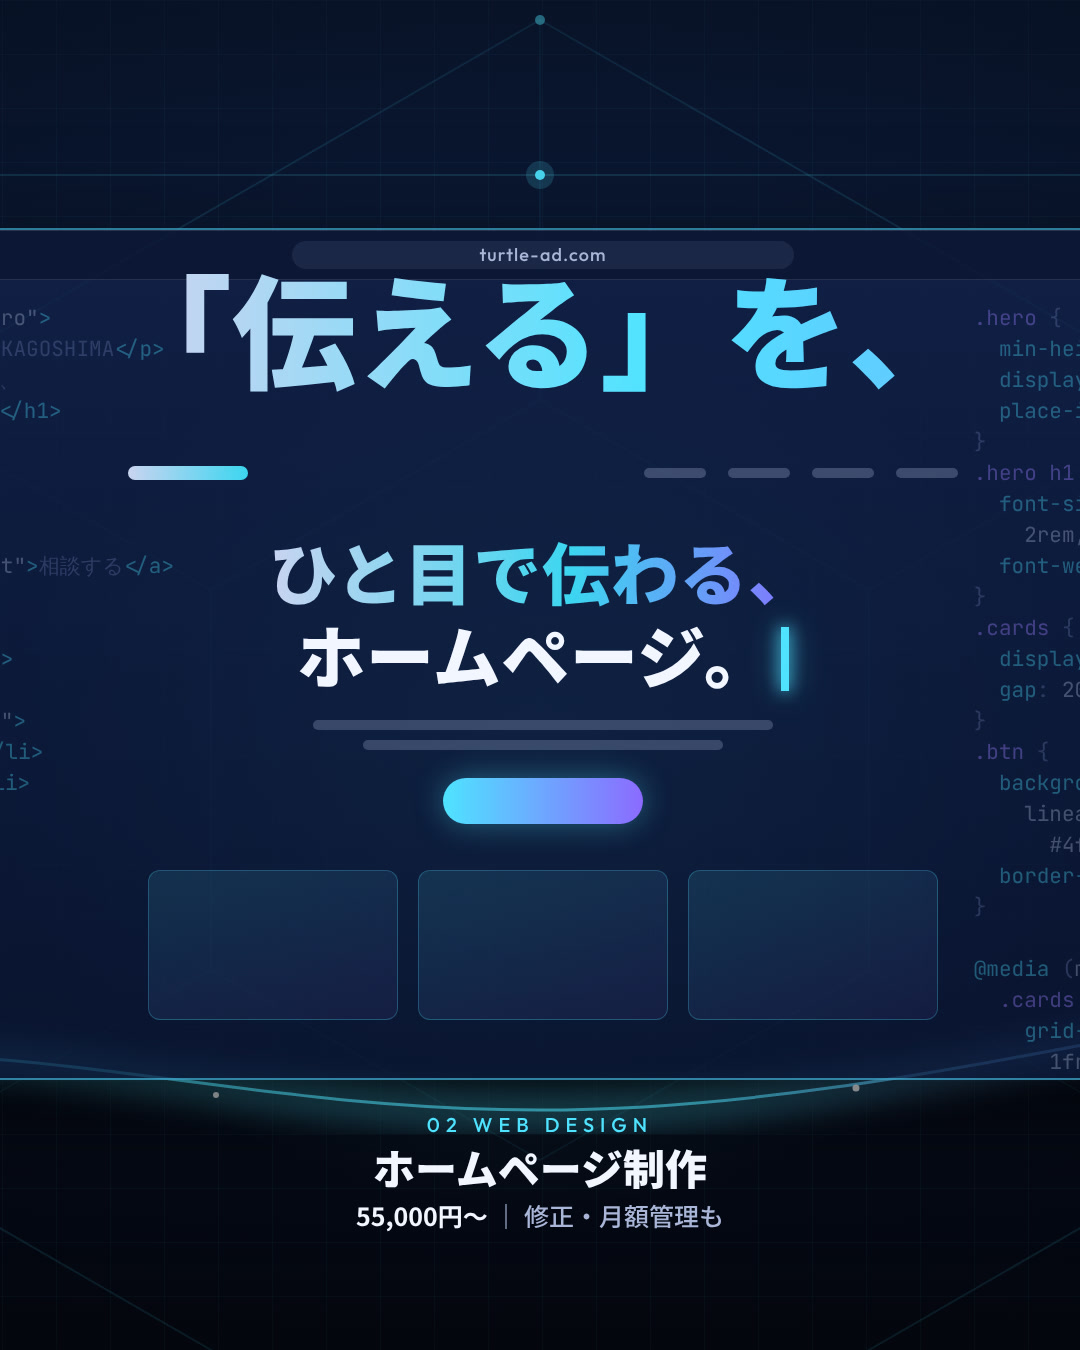
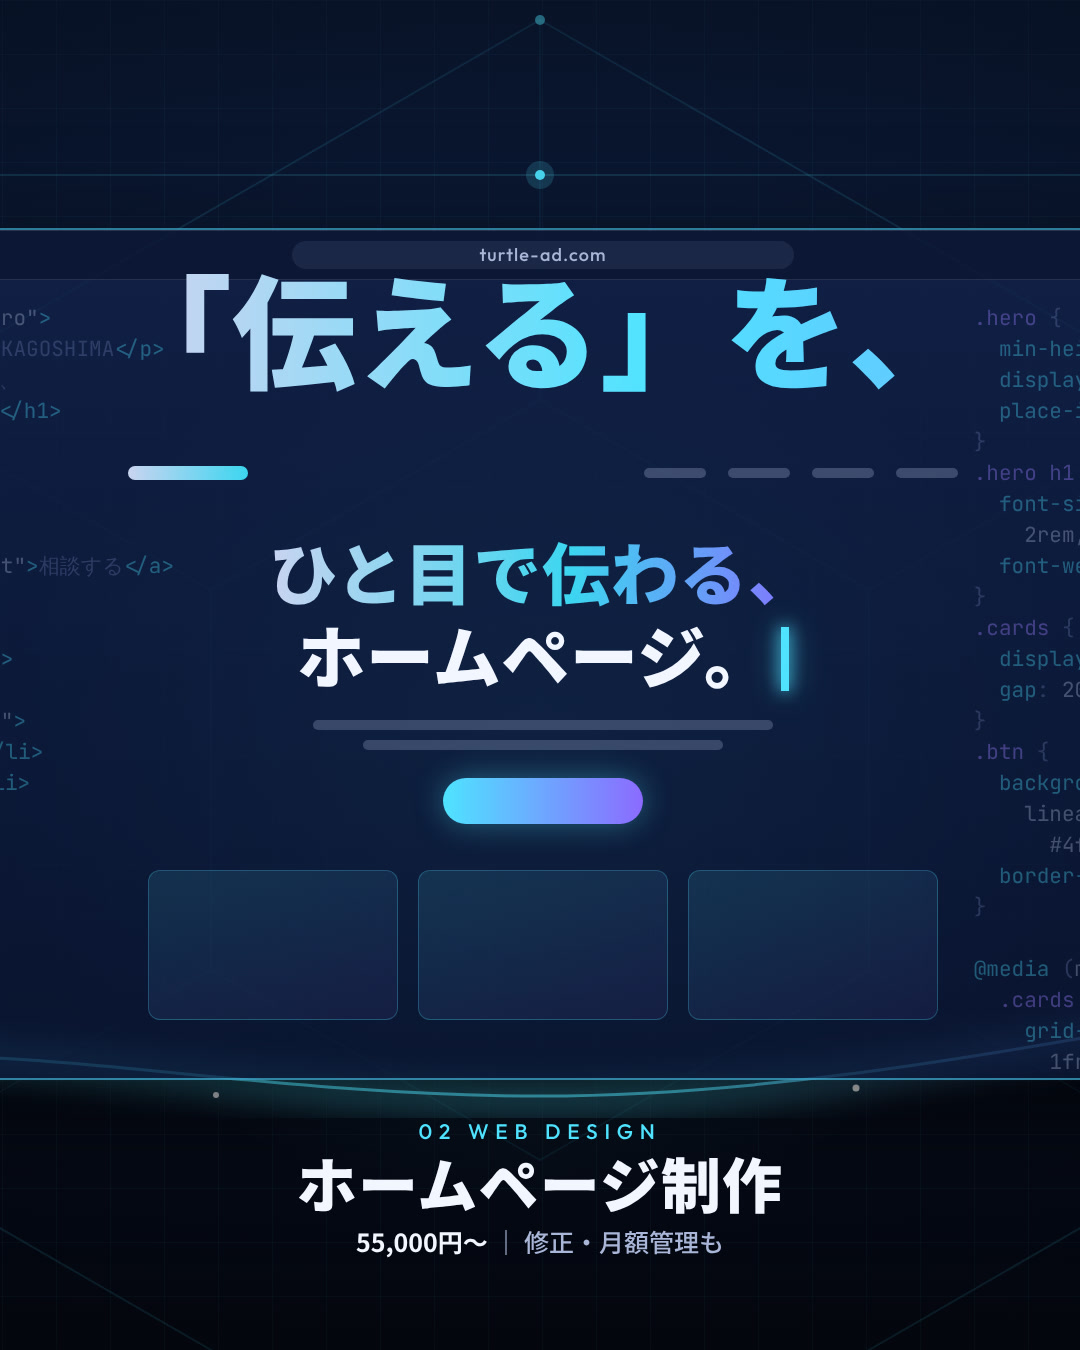
固定3枚: 3つの事業名を大きく、すべて中央揃えに
Claude-Session: https://claude.ai/code/session_01AEUD54a1kfyYiAYXhJ5bzU

Changed region(s): [[0.275, 0.8089, 0.7333, 0.9333], [0.0611, 0.7778, 0.275, 0.8089], [0.7333, 0.7778, 0.9167, 0.8089]]

diff --git a/img/pinned/pin_master.html b/img/pinned/pin_master.html
@@ -53,25 +53,25 @@ svg.layer{position:absolute;left:0;top:0;width:3128px;height:1350px}
 .chat .a .who span{font-family:'Outfit',sans-serif;font-size:18px;letter-spacing:.2em;color:#a9b6d8}
 .chat .a i{display:block;height:12px;border-radius:6px;margin-bottom:12px;background:linear-gradient(90deg,rgba(79,227,255,.75),rgba(139,107,255,.5));box-shadow:0 0 14px rgba(79,227,255,.35)}
 /* phone */
-.ph{left:2350px;top:430px;width:360px;height:680px;border-radius:52px;padding:3px;background:linear-gradient(160deg,#4fe3ff,#8b6bff);box-shadow:0 0 70px rgba(139,107,255,.35), 0 40px 100px rgba(0,0,0,.6)}
+.ph{left:2360px;top:432px;width:340px;height:640px;border-radius:52px;padding:3px;background:linear-gradient(160deg,#4fe3ff,#8b6bff);box-shadow:0 0 70px rgba(139,107,255,.35), 0 40px 100px rgba(0,0,0,.6)}
 .ph .in{position:relative;width:100%;height:100%;border-radius:49px;overflow:hidden;background:
   radial-gradient(260px 240px at 70% 28%, rgba(139,107,255,.85), transparent 70%),
   radial-gradient(280px 260px at 25% 62%, rgba(40,130,220,.75), transparent 70%),
   linear-gradient(180deg,#141a4a,#081024)}
-.ph .notch{position:absolute;left:130px;top:16px;width:94px;height:26px;border-radius:13px;background:#04070f}
+.ph .notch{position:absolute;left:120px;top:16px;width:94px;height:26px;border-radius:13px;background:#04070f}
 .ph .reel{position:absolute;left:28px;top:62px;font-family:'Outfit',sans-serif;font-weight:700;font-size:18px;letter-spacing:.26em;color:#fff;opacity:.9}
-.ph .play{position:absolute;left:127px;top:250px;width:106px;height:106px;border-radius:50%;background:rgba(255,255,255,.16);border:2px solid rgba(255,255,255,.7);backdrop-filter:blur(4px)}
+.ph .play{position:absolute;left:117px;top:236px;width:106px;height:106px;border-radius:50%;background:rgba(255,255,255,.16);border:2px solid rgba(255,255,255,.7);backdrop-filter:blur(4px)}
 .ph .play:after{content:'';position:absolute;left:42px;top:31px;border-left:34px solid #fff;border-top:21px solid transparent;border-bottom:21px solid transparent}
-.ph .cap{position:absolute;left:50%;transform:translateX(-50%);top:478px;white-space:nowrap;padding:10px 22px;border-radius:10px;background:rgba(4,7,15,.72);font-size:32px;font-weight:900}
-.ph .prog{position:absolute;left:28px;right:28px;top:600px;height:6px;border-radius:3px;background:rgba(255,255,255,.25)}
+.ph .cap{position:absolute;left:50%;transform:translateX(-50%);top:452px;white-space:nowrap;padding:10px 22px;border-radius:10px;background:rgba(4,7,15,.72);font-size:32px;font-weight:900}
+.ph .prog{position:absolute;left:28px;right:28px;top:566px;height:6px;border-radius:3px;background:rgba(255,255,255,.25)}
 .ph .prog:before{content:'';position:absolute;left:0;top:0;bottom:0;width:58%;border-radius:3px;background:linear-gradient(90deg,#4fe3ff,#8b6bff)}
-.ph .side{position:absolute;right:20px;top:330px;display:flex;flex-direction:column;gap:22px}
+.ph .side{position:absolute;right:18px;top:310px;display:flex;flex-direction:column;gap:22px}
 .ph .side i{display:block;width:34px;height:34px;border-radius:50%;background:rgba(255,255,255,.22)}
 /* bottom */
-.svc{top:1112px}
-.svc .no{font-family:'Outfit',sans-serif;font-weight:500;font-size:20px;letter-spacing:.3em;color:#4fe3ff}
-.svc .nm{margin-top:6px;font-size:42px;font-weight:900;line-height:1.15}
-.svc .ds{margin-top:6px;font-size:25px;font-weight:500;color:#a9b6d8}
+.svc{top:1118px;width:820px;text-align:center}
+.svc .no{font-family:'Outfit',sans-serif;font-weight:500;font-size:21px;letter-spacing:.32em;color:#4fe3ff}
+.svc .nm{margin-top:4px;font-size:60px;font-weight:900;line-height:1.12;letter-spacing:.02em}
+.svc .ds{margin-top:8px;font-size:25px;font-weight:500;color:#a9b6d8;white-space:nowrap}
 .svc .ds b{color:#f2f6ff;font-weight:700}
 </style></head><body><div class="m">
 <div class="grid"></div>
@@ -92,8 +92,8 @@ svg.layer{position:absolute;left:0;top:0;width:3128px;height:1350px}
   <line x1="560" y1="175" x2="2620" y2="175" stroke-width="1" stroke-opacity=".3"/>
  </g>
  <g fill="#4fe3ff"><circle cx="1564" cy="20" r="5" fill-opacity=".6"/><circle cx="2222" cy="400" r="5" fill-opacity=".6"/><circle cx="906" cy="400" r="5" fill-opacity=".6"/><circle cx="300" cy="520" r="4" fill-opacity=".5"/><circle cx="2850" cy="470" r="4" fill-opacity=".5"/><circle cx="1564" cy="175" r="5"/><circle cx="1564" cy="175" r="14" fill-opacity=".18"/></g>
- <path d="M-20,905 C420,980 700,1062 900,1056 S1300,1110 1564,1110 S2080,1046 2330,1004 S2860,892 3148,876" fill="none" stroke="url(#flow)" stroke-width="40" stroke-opacity=".32" filter="url(#blur)"/>
- <path d="M-20,905 C420,980 700,1062 900,1056 S1300,1110 1564,1110 S2080,1046 2330,1004 S2860,892 3148,876" fill="none" stroke="url(#flow)" stroke-width="3" stroke-opacity=".95"/>
+ <path d="M-20,905 C420,980 700,1062 900,1056 S1300,1096 1564,1096 S2080,1040 2330,1000 S2860,892 3148,876" fill="none" stroke="url(#flow)" stroke-width="40" stroke-opacity=".32" filter="url(#blur)"/>
+ <path d="M-20,905 C420,980 700,1062 900,1056 S1300,1096 1564,1096 S2080,1040 2330,1000 S2860,892 3148,876" fill="none" stroke="url(#flow)" stroke-width="3" stroke-opacity=".95"/>
  <g fill="#ffffff"><circle cx="520" cy="1000" r="3.5" fill-opacity=".9"/><circle cx="1240" cy="1095" r="3" fill-opacity=".8"/><circle cx="1880" cy="1088" r="3.5" fill-opacity=".9"/><circle cx="2600" cy="950" r="3" fill-opacity=".8"/></g>
 </svg>
 
@@ -190,8 +190,8 @@ svg.layer{position:absolute;left:0;top:0;width:3128px;height:1350px}
  </g>
 </svg>
 
-<!-- bottom services -->
-<div class="ab svc" style="left:110px"><div class="no">01  AI SUPPORT</div><div class="nm">AI活用サポート</div><div class="ds">ChatGPT・Claude ｜ <b>初回相談無料</b></div></div>
-<div class="ab svc" style="left:1164px;width:800px;text-align:center"><div class="no">02  WEB DESIGN</div><div class="nm">ホームページ制作</div><div class="ds"><b>55,000円〜</b> ｜ 修正・月額管理も</div></div>
-<div class="ab svc" style="left:2158px"><div class="no">03  AI MOVIE</div><div class="nm">AI動画作成</div><div class="ds">縦型動画 1本 <b>9,800円</b></div></div>
+<!-- bottom services: centered in each tile -->
+<div class="ab svc" style="left:130px"><div class="no">01  AI SUPPORT</div><div class="nm">AI活用サポート</div><div class="ds">ChatGPT・Claude ｜ <b>初回相談無料</b></div></div>
+<div class="ab svc" style="left:1154px"><div class="no">02  WEB DESIGN</div><div class="nm">ホームページ制作</div><div class="ds"><b>55,000円〜</b> ｜ 修正・月額管理も</div></div>
+<div class="ab svc" style="left:2178px"><div class="no">03  AI MOVIE</div><div class="nm">AI動画作成</div><div class="ds">縦型動画 ｜ <b>1本 9,800円</b></div></div>
 </div></body></html>
